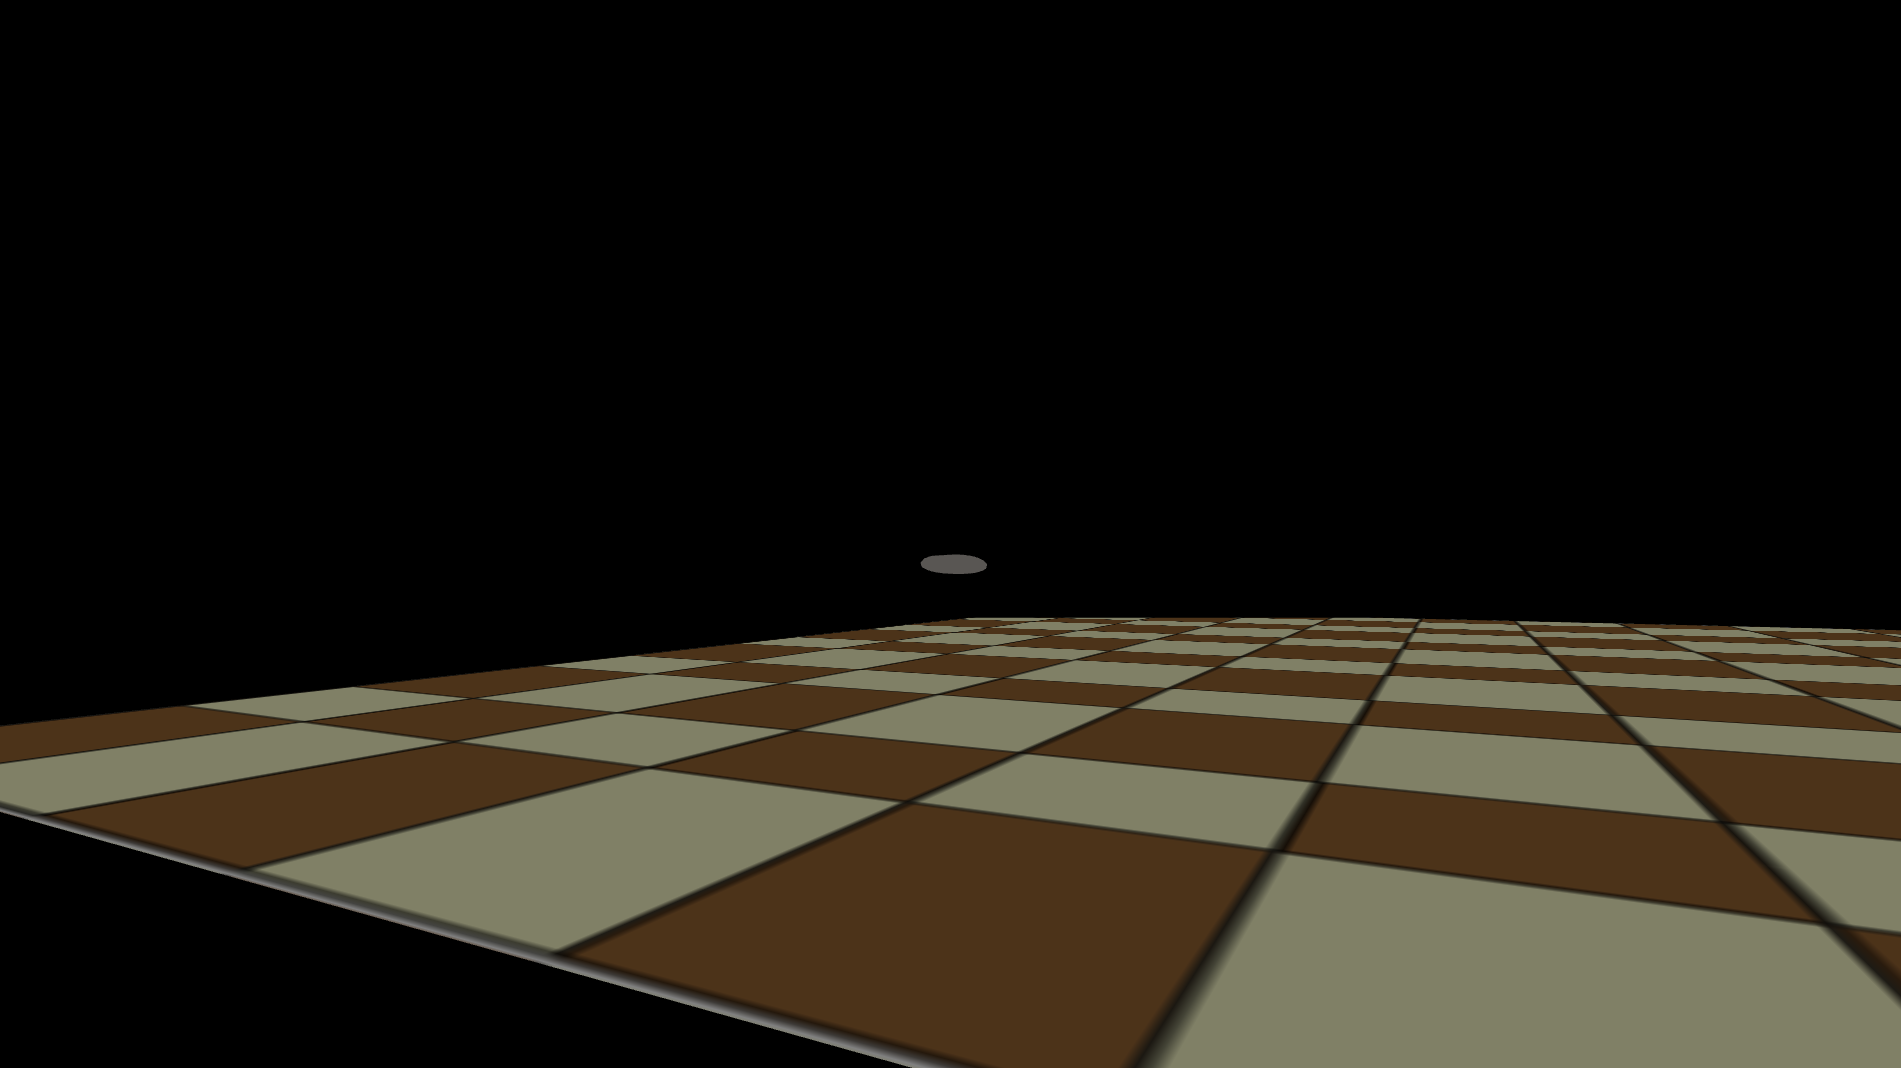
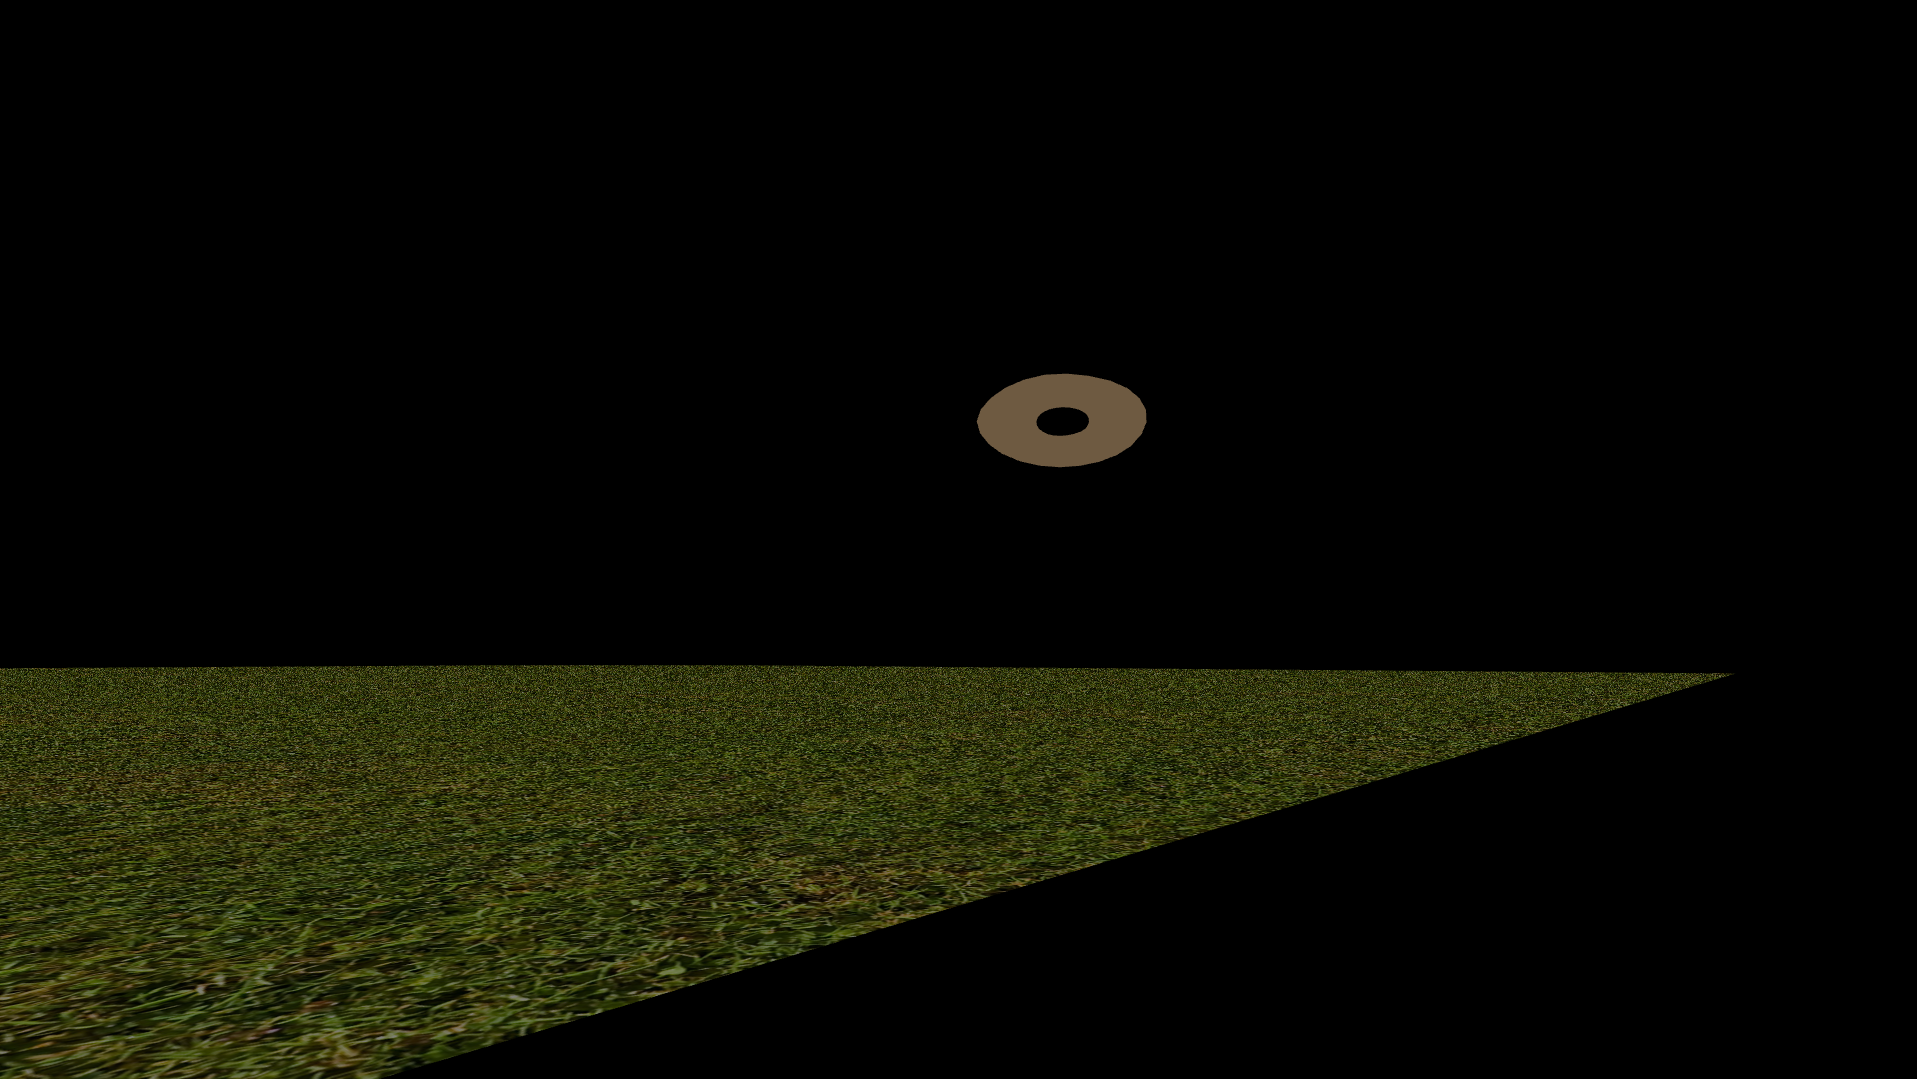
Added some textures for ground and donut.

diff --git a/game.c b/game.c
@@ -26,7 +26,9 @@
 
 GLuint vbo,ibo;
 
-Texture texture = {0};
+Texture texture1 = {0};
+Texture texture2 = {0};
+
 Mesh obj = {0};
 Mesh ground = {0};
 
@@ -188,6 +190,7 @@ void init()
     printf("Creating meshes.\n");
     init_meshes();
 
+    player_init();
     camera_init();
     init_world();
     init_lighting();
@@ -222,9 +225,9 @@ void init_meshes()
     // ground
     Vertex floor_vertices[] = {
         {{0.0f,0.0f,0.0f},{0.0f,0.0f},{0.0f,0.0f,0.0f}},
-        {{0.0f,0.0f,1.0f},{0.0f,1.0f},{0.0f,0.0f,0.0f}},
-        {{1.0f,0.0f,0.0f},{1.0f,0.0f},{0.0f,0.0f,0.0f}},
-        {{1.0f,0.0f,1.0f},{1.0f,1.0f},{0.0f,0.0f,0.0f}}
+        {{0.0f,0.0f,1.0f},{0.0f,10.0f},{0.0f,0.0f,0.0f}},
+        {{1.0f,0.0f,0.0f},{10.0f,0.0f},{0.0f,0.0f,0.0f}},
+        {{1.0f,0.0f,1.0f},{10.0f,10.0f},{0.0f,0.0f,0.0f}}
     };
 
     u32 floor_indices[] = {
@@ -250,8 +253,8 @@ void init_meshes()
 	glBindBuffer(GL_ELEMENT_ARRAY_BUFFER, ground.ibo);
 	glBufferData(GL_ELEMENT_ARRAY_BUFFER, ground.num_indices*sizeof(u32), ground.indices, GL_STATIC_DRAW);
 
-    memcpy(&obj.mat.texture,&texture,sizeof(Texture));
-    memcpy(&ground.mat.texture,&texture,sizeof(Texture));
+    memcpy(&obj.mat.texture,&texture2,sizeof(Texture));
+    memcpy(&ground.mat.texture,&texture1,sizeof(Texture));
 
 }
 
@@ -259,11 +262,20 @@ void load_textures()
 {
     bool success;
 
-    success = texture_load(&texture,"textures/test.png");
+    success = texture_load(&texture1,"textures/grass.png");
+
     if(!success)
     {
         printf("Failed to load texture!\n");
         return;
     }
-}
 
+    success = texture_load(&texture2,"textures/donut.png");
+
+    if(!success)
+    {
+        printf("Failed to load texture!\n");
+        return;
+    }
+
+}

diff --git a/camera.c b/camera.c
@@ -52,9 +52,9 @@ void camera_init()
 {
     memset(&camera,0,sizeof(Camera));
 
-    camera.position.y = 10.0f;
-    camera.target.z = 1.0f;
-    camera.up.y = 1.0f;
+    camera.position.y = player.height;
+    camera.target.z   = 1.0f;
+    camera.up.y       = 1.0f;
 
     Vector3f h_target = {
         camera.target.x,
@@ -157,7 +157,7 @@ void camera_update()
 
 static void camera_update_velocity()
 {
-    float max_vel = 0.5f;
+    float max_vel = 5.0f * TARGET_SPF;
 
     if(player.key_shift)
     {
@@ -252,13 +252,13 @@ static void camera_update_position()
     camera.position.z += camera.velocity.z;
 
     // @TODO: Move this code into "player" file
-    if(camera.position.y > 10.0f)
+    if(camera.position.y > player.height)
     {
         camera.velocity.y -= 0.05f;
     }
     else
     {
-        camera.position.y = 10.0f;
+        camera.position.y = player.height;
         camera.velocity.y = 0.0f;
         player.is_in_air = false;
     }

diff --git a/texture.c b/texture.c
@@ -15,10 +15,12 @@ bool texture_load(Texture* t, const char* filepath)
         printf("Failed to load file (%s)",filepath);
         return false;
     }
-
+    
+    printf("Loaded file %s. w: %d h: %d\n",filepath,x,y);
+    
     glGenTextures(1, &t->id);
     glBindTexture(GL_TEXTURE_2D, t->id);
-    glTexImage2D(GL_TEXTURE_2D, 0, GL_RGBA, x, y, 0, GL_RGBA, GL_UNSIGNED_BYTE, t->data);
+    glTexImage2D(GL_TEXTURE_2D, 0, GL_RGB, x, y, 0, GL_RGB, GL_UNSIGNED_BYTE, t->data);
 
     glTexParameterf(GL_TEXTURE_2D, GL_TEXTURE_MIN_FILTER, GL_LINEAR);
     glTexParameterf(GL_TEXTURE_2D, GL_TEXTURE_MAG_FILTER, GL_LINEAR);    
@@ -33,4 +35,9 @@ void texture_bind(Texture* t, GLenum texture_unit)
 {
     glActiveTexture(texture_unit);
     glBindTexture(GL_TEXTURE_2D, t->id);
+}
+
+void texture_unbind()
+{
+    glBindTexture(GL_TEXTURE_2D, 0);
 }

diff --git a/mesh.c b/mesh.c
@@ -231,7 +231,9 @@ void mesh_render(Mesh* mesh)
     glVertexAttribPointer(1, 2, GL_FLOAT, GL_FALSE, sizeof(Vertex), (const GLvoid*)12);
     glVertexAttribPointer(2, 3, GL_FLOAT, GL_FALSE, sizeof(Vertex), (const GLvoid*)20);
     glBindBuffer(GL_ELEMENT_ARRAY_BUFFER,mesh->ibo);
-    texture_bind(&mesh->mat.texture,GL_TEXTURE0);
+
+    if(mesh->mat.texture.data)
+        texture_bind(&mesh->mat.texture,GL_TEXTURE0);
 
     if(show_wireframe)
         glDrawElements(GL_LINES, mesh->num_indices, GL_UNSIGNED_INT, 0);
@@ -241,5 +243,7 @@ void mesh_render(Mesh* mesh)
     glDisableVertexAttribArray(0);
     glDisableVertexAttribArray(1);
     glDisableVertexAttribArray(2);
+
+    texture_unbind();
 
 }

diff --git a/player.h b/player.h
@@ -2,6 +2,8 @@
 
 typedef struct
 {
+    float height;
+
     bool key_w_down;
     bool key_s_down;
     bool key_a_down;
@@ -12,3 +14,5 @@ typedef struct
 } Player;
 
 extern Player player;
+
+void player_init();

diff --git a/player.c b/player.c
@@ -1,4 +1,11 @@
 #include <stdbool.h>
+#include <string.h>
 #include "player.h"
 
 Player player = {0};
+
+void player_init()
+{
+    memset(&player,0,sizeof(Player));
+    player.height = 1.4f; // meters
+}

diff --git a/texture.h b/texture.h
@@ -8,3 +8,4 @@ typedef struct
 
 bool texture_load(Texture* t, const char* filepath);
 void texture_bind(Texture* t, GLenum texture_unit);
+void texture_unbind();
